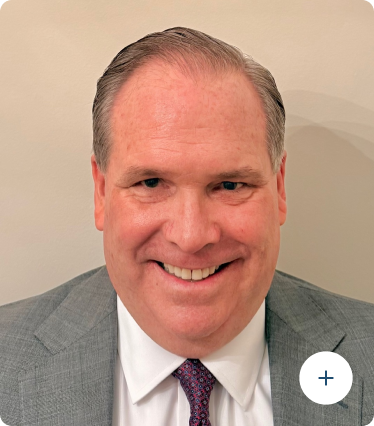
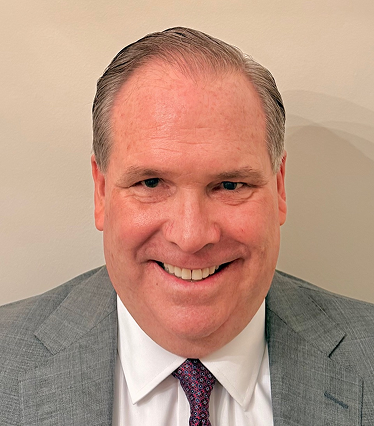
images hotfixes

diff --git a/src/constants/images.ts b/src/constants/images.ts
@@ -4,13 +4,13 @@ const filterPath = (path: string) => path.replace("/public/", "/");
 
 export const IMAGES = {
   homepage: {
-    bg: "/assets/images/home-bg.png",
-    logo: "/assets/images/logo.png",
-    logoWhite: "/assets/images/logoWhite.png",
-    patentProtection1: "/assets/images/patentProtection1.png",
-    patentProtection2: "/assets/images/patentProtection2.png",
-    flowVax: "/assets/images/flowVax1.png",
-    viewAllIcon: "/assets/icons/view.png",
+    bg: filterPath("/assets/images/home-bg.png"),
+    logo: filterPath("/assets/images/logo.png"),
+    logoWhite: filterPath("/assets/images/logoWhite.png"),
+    patentProtection1: filterPath("/assets/images/patentProtection1.png"),
+    patentProtection2: filterPath("/assets/images/patentProtection2.png"),
+    flowVax: filterPath("/assets/images/flowVax1.png"),
+    viewAllIcon: filterPath("/assets/icons/view.png"),
   },
 
   ourTeams: {